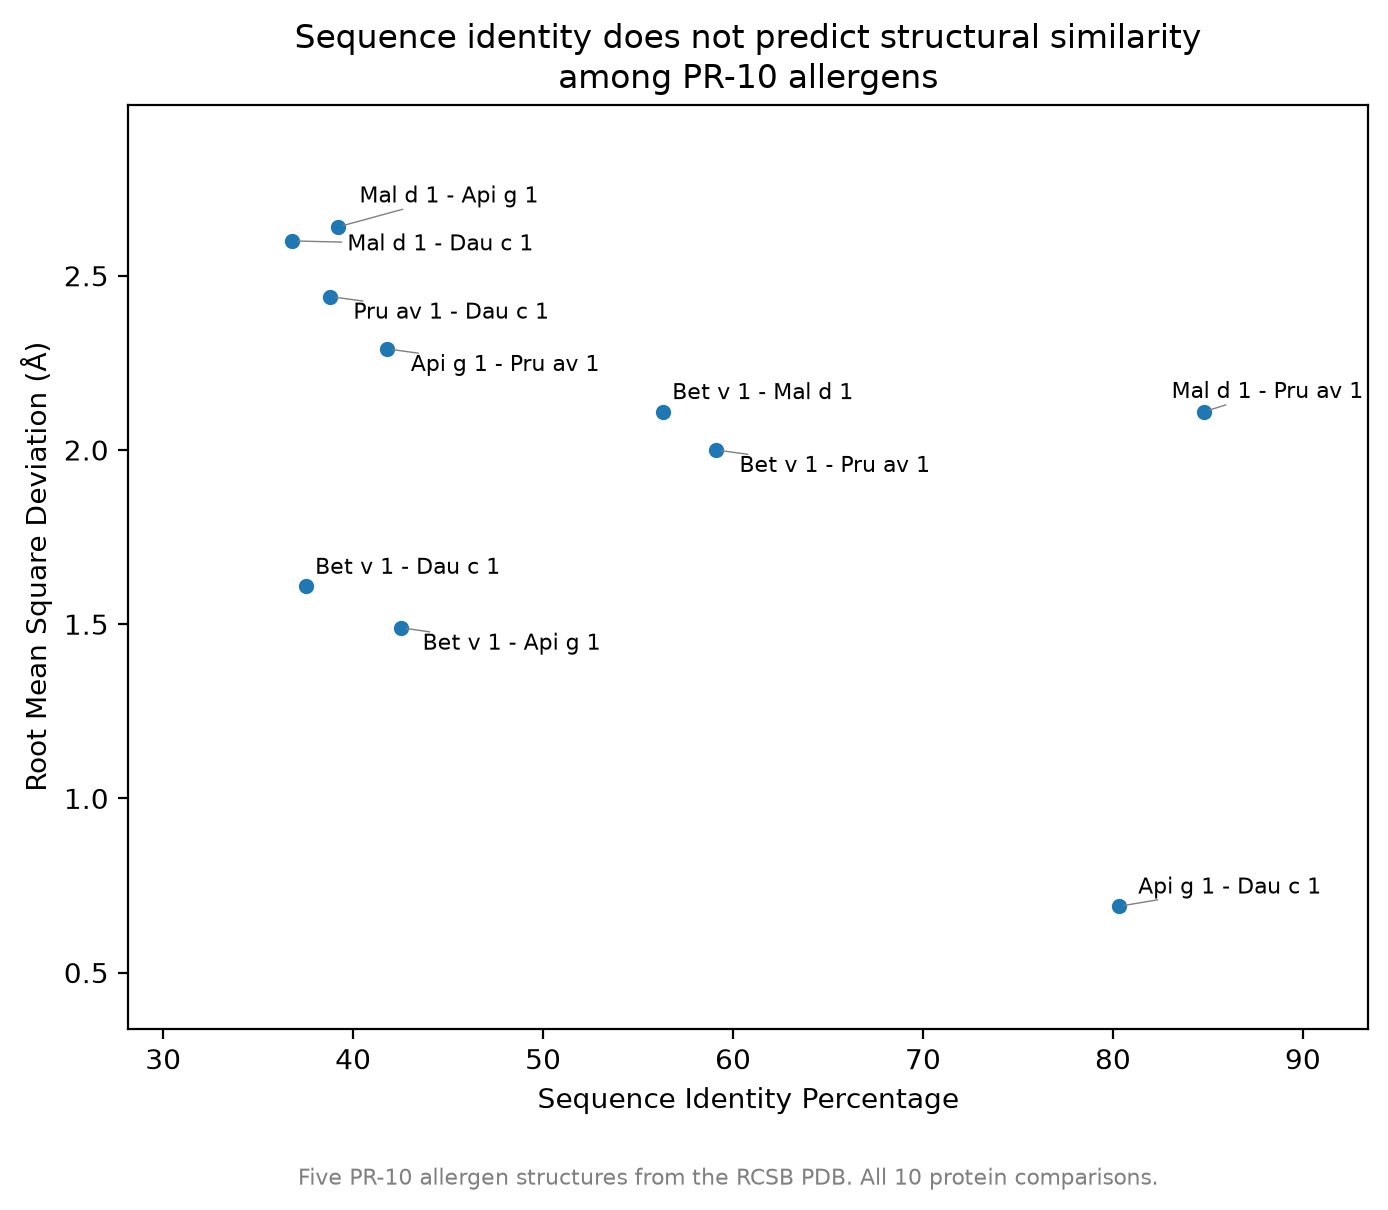
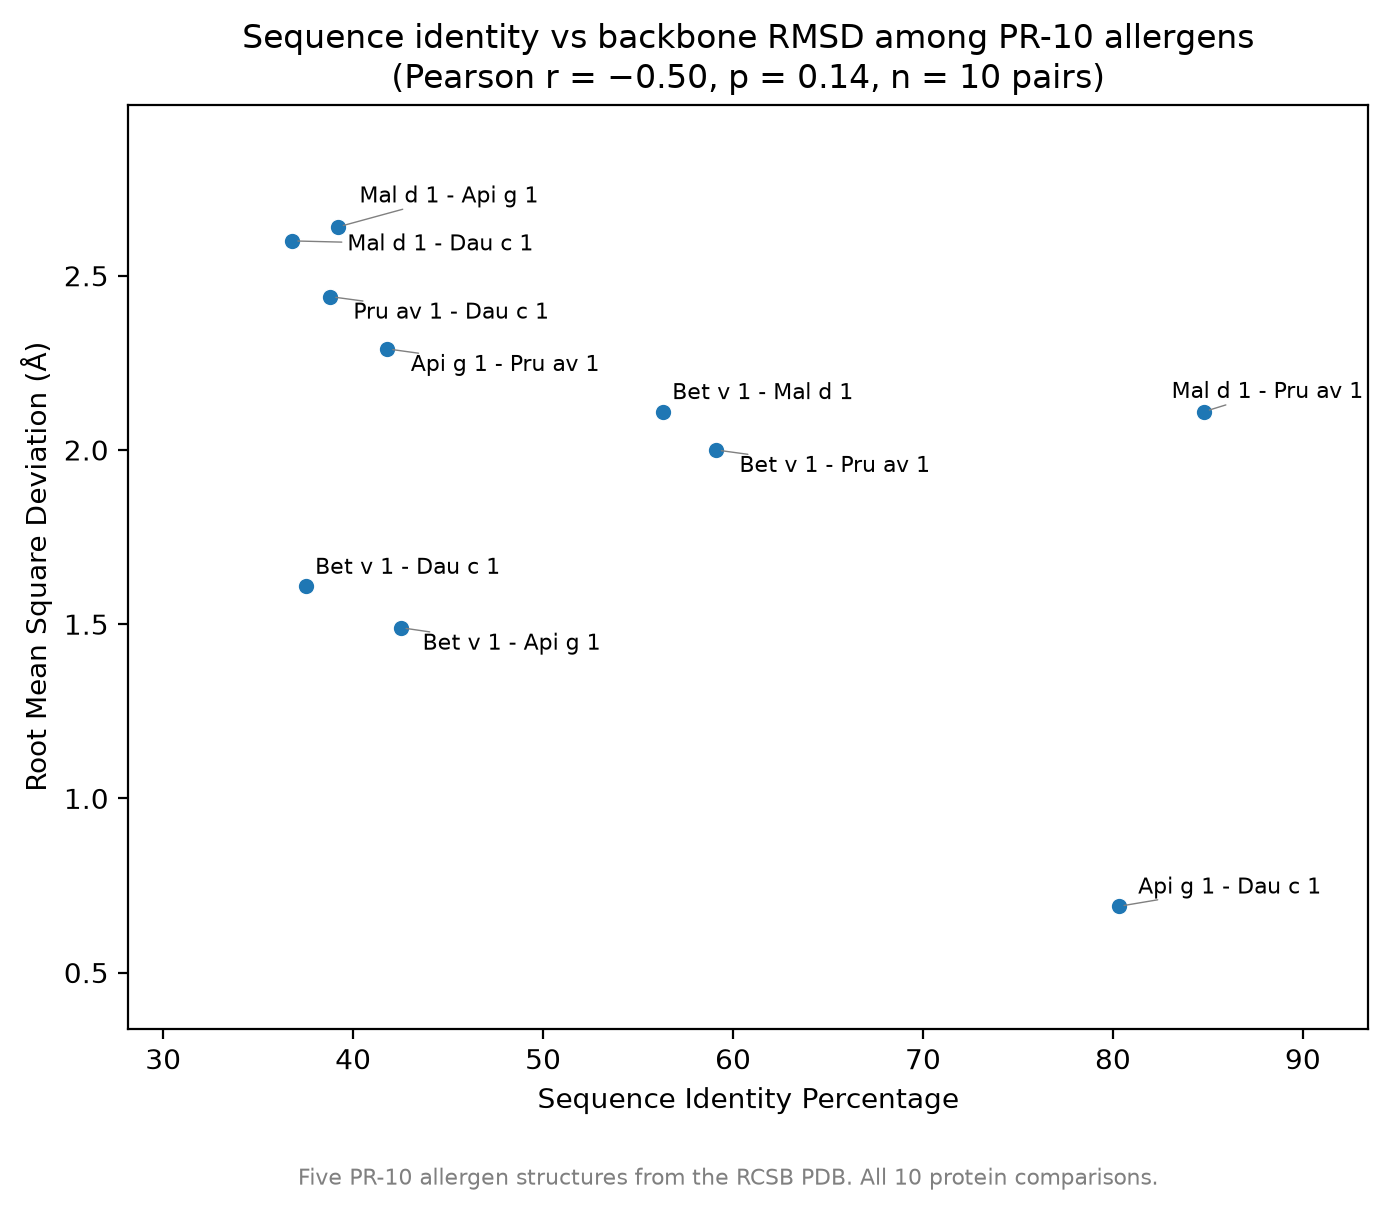
Withdraw the original claim and add correlation statistics
The README claimed sequence identity does not predict structural
similarity. Ten pairs cannot support that: Pearson r = -0.50 (p = 0.14)
and Spearman rho = -0.51 (p = 0.13) are both non-significant, and the
Pearson trend depends largely on the celery/carrot pair.

- Add statistics.ipynb with Pearson and Spearman, with and without
  the celery/carrot pair
- Rewrite the README result and conclusion to match
- Retitle the scatter plot to report r and p instead of the old claim

Changed region(s): [[0.1859, 0.0, 0.8984, 0.0917]]

diff --git a/README.md b/README.md
@@ -3,7 +3,8 @@
 Does sequence similarity predict structural similarity among PR-10 plant allergens?
 
 This compares five PR-10 allergens pairwise — percent sequence identity against backbone
-RMSD — and finds that the two measures do not track each other closely.
+RMSD. Ten pairs show a weak negative trend that is not statistically significant, and the
+Pearson correlation depends on a single pair, so the data cannot answer the question either way.
 
 ![Sequence identity vs RMSD](identity_vs_rmsd.png)
 
@@ -56,17 +57,35 @@ conformations, the highest-occupancy position was used.
 
 ## Result
 
-The full table is in [`allergen_comparison.csv`](allergen_comparison.csv). Two pairs make the
-point:
+The full table is in [`allergen_comparison.csv`](allergen_comparison.csv).
+
+| | Pearson r | p | Spearman ρ | p |
+|---|---|---|---|---|
+| all 10 pairs | −0.50 | 0.14 | −0.51 | 0.13 |
+| without Api g 1 – Dau c 1 (celery/carrot) | −0.14 | 0.72 | −0.40 | 0.28 |
+
+Higher identity goes with lower RMSD, but neither correlation is significant at n = 10.
+
+Pearson assumes a straight-line relationship and is sensitive to extreme points; the
+identity–RMSD relationship is known to be curved (Chothia & Lesk, 1986), so Spearman, which
+uses ranks, is reported alongside it. Removing the celery/carrot pair collapses Pearson
+(−0.50 → −0.14) but only weakens Spearman (−0.51 → −0.40): much of the Pearson trend comes from
+that one extreme point.
+
+Two pairs show the disagreement directly:
 
 | Pair | Sequence identity | RMSD |
 |---|---|---|
 | Api g 1 – Dau c 1 (celery/carrot) | 80.3% | **0.69 Å** — most similar structure |
 | Mal d 1 – Pru av 1 (apple/cherry) | **84.8%** — most similar sequence | 2.11 Å |
 
-The most sequence-similar pair is not the most structurally similar. The same disagreement
-appears from birch: Bet v 1 – Api g 1 has lower sequence identity than Bet v 1 – Mal d 1
-(42.5% vs 56.3%) but a lower RMSD (1.49 Å vs 2.11 Å).
+Both are high-identity pairs. They differ in method: celery/carrot is the only X-ray/X-ray
+comparison, and apple/cherry are both NMR structures (see Limitations). So the gap between
+them may come from the method, not the biology.
+
+**Conclusion:** this dataset can neither show that sequence identity predicts structural
+similarity nor that it fails to. Ten pairs from five proteins are too few to decide, and the
+pairs are not independent: each protein appears in four of them.
 
 ## Limitations
 
@@ -76,12 +95,18 @@ appears from birch: Bet v 1 – Api g 1 has lower sequence identity than Bet v 1
   likely methodological rather than biological. Regenerating all five structures with
   AlphaFold would give one uniform method and test this.
 - **Five proteins, one family, ten pairs.** A small sample.
-- **No clinical data.** This shows that two measures disagree; it does not show which one
+- **No clinical data.** Even a clear identity–RMSD relationship would not show which measure
   predicts allergy. Validating that needs cross-reactivity rates from clinical studies.
 - **One isoform each.** Bet v 1 in particular exists as many isoforms that differ in IgE
   reactivity, so these numbers describe specific isoforms, not the allergens in general.
 
 ## Next
+
+- Leave-one-out: remove each pair in turn to see how much the correlation depends on any one.
+- NMR ensembles: measure how much the models within one NMR file differ, compared with the
+  differences between proteins.
+- Scale up: the same comparison across every PR-10 structure in the PDB, with uncertainty
+  estimated by resampling whole proteins rather than pairs.
 
 Epitope-level analysis. `9Y0A` is a crystal structure of Bet v 1 bound to a human IgE Fab, so
 the residues the antibody actually contacts can be measured rather than predicted. The question
@@ -93,8 +118,9 @@ the protein is.
 | File | |
 |---|---|
 | `allergen_functions.py` | the analysis functions |
-| `data_creation.ipynb` | builds `allergen_comparison.csv` from the PDB files |
-| `figure.ipynb` | produces `identity_vs_rmsd.png` |
+| `data_creation.ipynb` | builds `allergen_comparison.csv` and `identity_vs_rmsd.png` from the PDB files |
+| `figure.ipynb` | early plotting practice |
+| `statistics.ipynb` | Pearson and Spearman correlations, with and without the celery/carrot pair |
 | `pdb_files/` | the five structures, as downloaded |
 
 ## Running it
@@ -102,10 +128,10 @@ the protein is.
 ```
 python3 -m venv .venv
 source .venv/bin/activate
-pip install biopython pandas matplotlib seaborn jupyter
+pip install biopython pandas scipy matplotlib seaborn adjustText jupyter
 ```
 
-Then run `data_creation.ipynb` followed by `figure.ipynb`.
+Then run `data_creation.ipynb`, then `statistics.ipynb`.
 
 ## Notes
 
